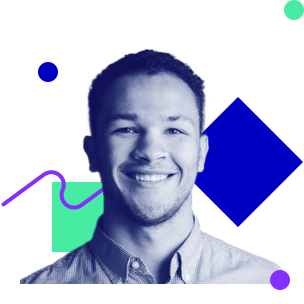
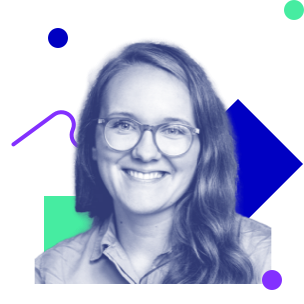
add authors

diff --git a/src/wrangelkiez/index.html b/src/wrangelkiez/index.html
@@ -82,25 +82,9 @@
               Der Rhythmus des Wrangelkiez
             </h1>
             <p class="header-publication-info">
-              <a
-                class="header-profile-link"
-                href="https://stadtpuls.com/accounts/ErikaMustermann"
-                target="_blank"
-                rel="noreferrer noopener"
-                itemprop="author"
-              >
                 <span>Ester Scheck</span>
-              </a>
               <span class="header-profile-separator">&</span>
-              <a
-                class="header-profile-link"
-                href="https://stadtpuls.com/accounts/MaxMustermann"
-                target="_blank"
-                rel="noreferrer noopener"
-                itemprop="author"
-              >
                 <span>Lisa Stubert</span>
-              </a>
               <span class="header-publication-date">
                 –
                 <time itemprop="datePublished" datetime="2021-10-25">
@@ -279,7 +263,7 @@
 
             <h2>Unser Code</h2>
             Wenn du mehr darüber erfahren willst, wie wir unsere Sensordaten verarbeitet haben, dann guck doch mal in unserem <a href="https://deepnote.com/project/Stadtpuls-Story-Larm-svXmxLJuSAGiqoQitfBt3w/%2Fnotebook.ipynb/#00002-1888d1c8-44b0-4427-8b85-433f100d7265">Online Python Notebook</a> vorbei. 
-            Dort findest du den Code den wir verwendet haben, um die Rohdaten von der Stadtpuls-API abzufragen, zu filtern und ein paar Berechnungen anzustellen. Die dort generierten CSV-Dateien, haben wir dann benutzt um die interaktiven Visualisierungen für diese Story zu erstellen. Den Code für die Graphen findest du in unserem <a href="">Story-Repository</a>.
+            Dort findest du den Code den wir verwendet haben, um die Rohdaten von der Stadtpuls-API abzufragen, zu filtern und ein paar Berechnungen anzustellen. Die dort generierten CSV-Dateien, haben wir dann benutzt um die interaktiven Visualisierungen für diese Story zu erstellen. Den Code für die Graphen findest du im <a href="https://github.com/technologiestiftung/stadtpuls-story-template">Repository</a> zu dieser Story.
             <pre class="wide-block">
               <code>
                 for i in ['22','23','24','25','27','28','29']:
@@ -295,24 +279,21 @@
             <div class="author-block" itemprop="author">
               <img
                 class="author-portrait"
-                src="/wrangelkiez/images/author-1.png"
-                alt="Portrait of Erika Mustermann"
+                src="/wrangelkiez/images/author-2.png"
+                alt="Portrait of Ester Scheck"
               />
               <div>
-                <h3>Erika Mustermann</h3>
+                <h3>Ester Scheck</h3>
                 <small>Open Data Researcher</small>
                 <p>Donec a rhoncus tortor, quis pharetra lorem. Suspendisse nec euismod erat, porta vulputate.</p>
-                <footer>
-                  <a href="https://stadpuls.com/ErikaMusta">@ErikaMusta</a>
-                  <a href="https://erikamustermann.de">Portfolio</a>
                 </footer>
               </div>
             </div>
             <div class="author-block" itemprop="author">
               <img
                 class="author-portrait"
-                src="/wrangelkiez/images/author-2.png"
-                alt="Portrait of MaxMustermann"
+                src="/wrangelkiez/images/author-1.png"
+                alt="Portrait of Lisa Stubert"
               />
               <div>
                 <h3>Lisa Stubert</h3>
@@ -320,7 +301,8 @@
                 <p>Lisa ist Geoinformatikerin bei Open Data Informationsstelle und beschäftigt sich mit den Vorteilen offener Daten für Berlin.</p>
                 <footer>
                   <a href="https://odis-berlin.de">ODIS</a>
-                  <a href="https://github.com/Lisa-Stubert">GitHub</a>
+                  <a href="https://github.com/Lisa-Stubert">GitHub</a>             
+                <footer>
                 </footer>
               </div>
             </div>
